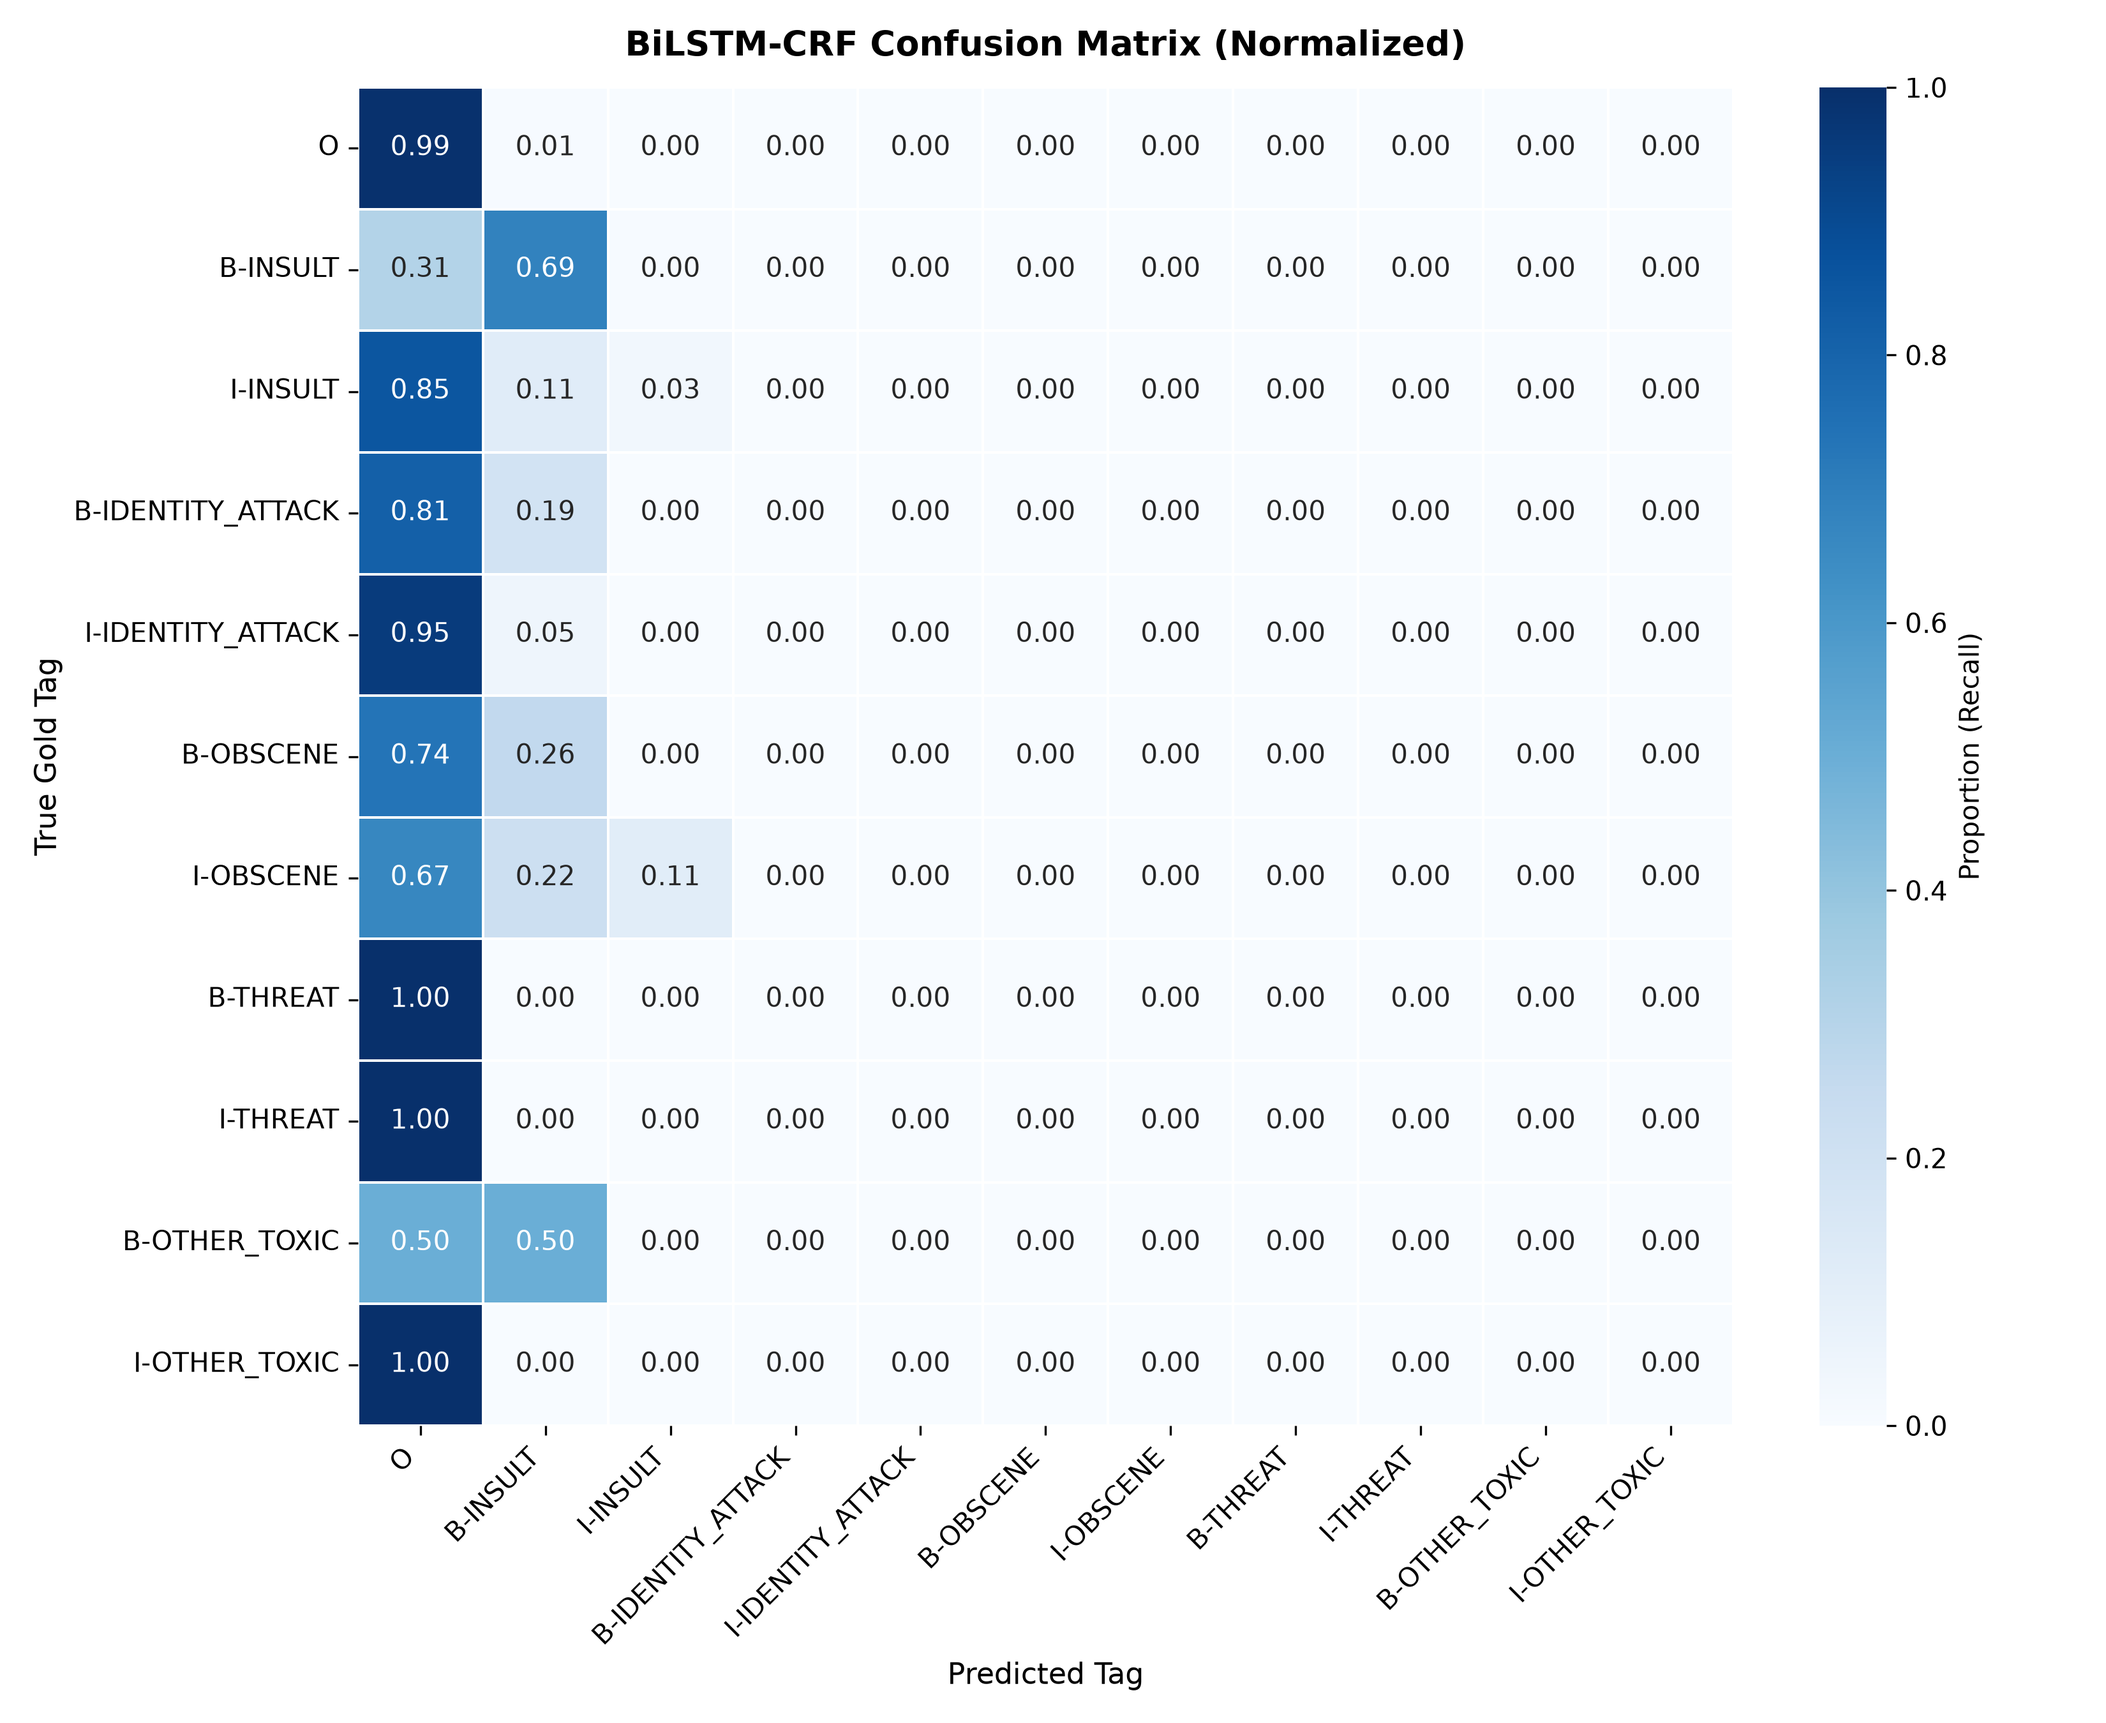
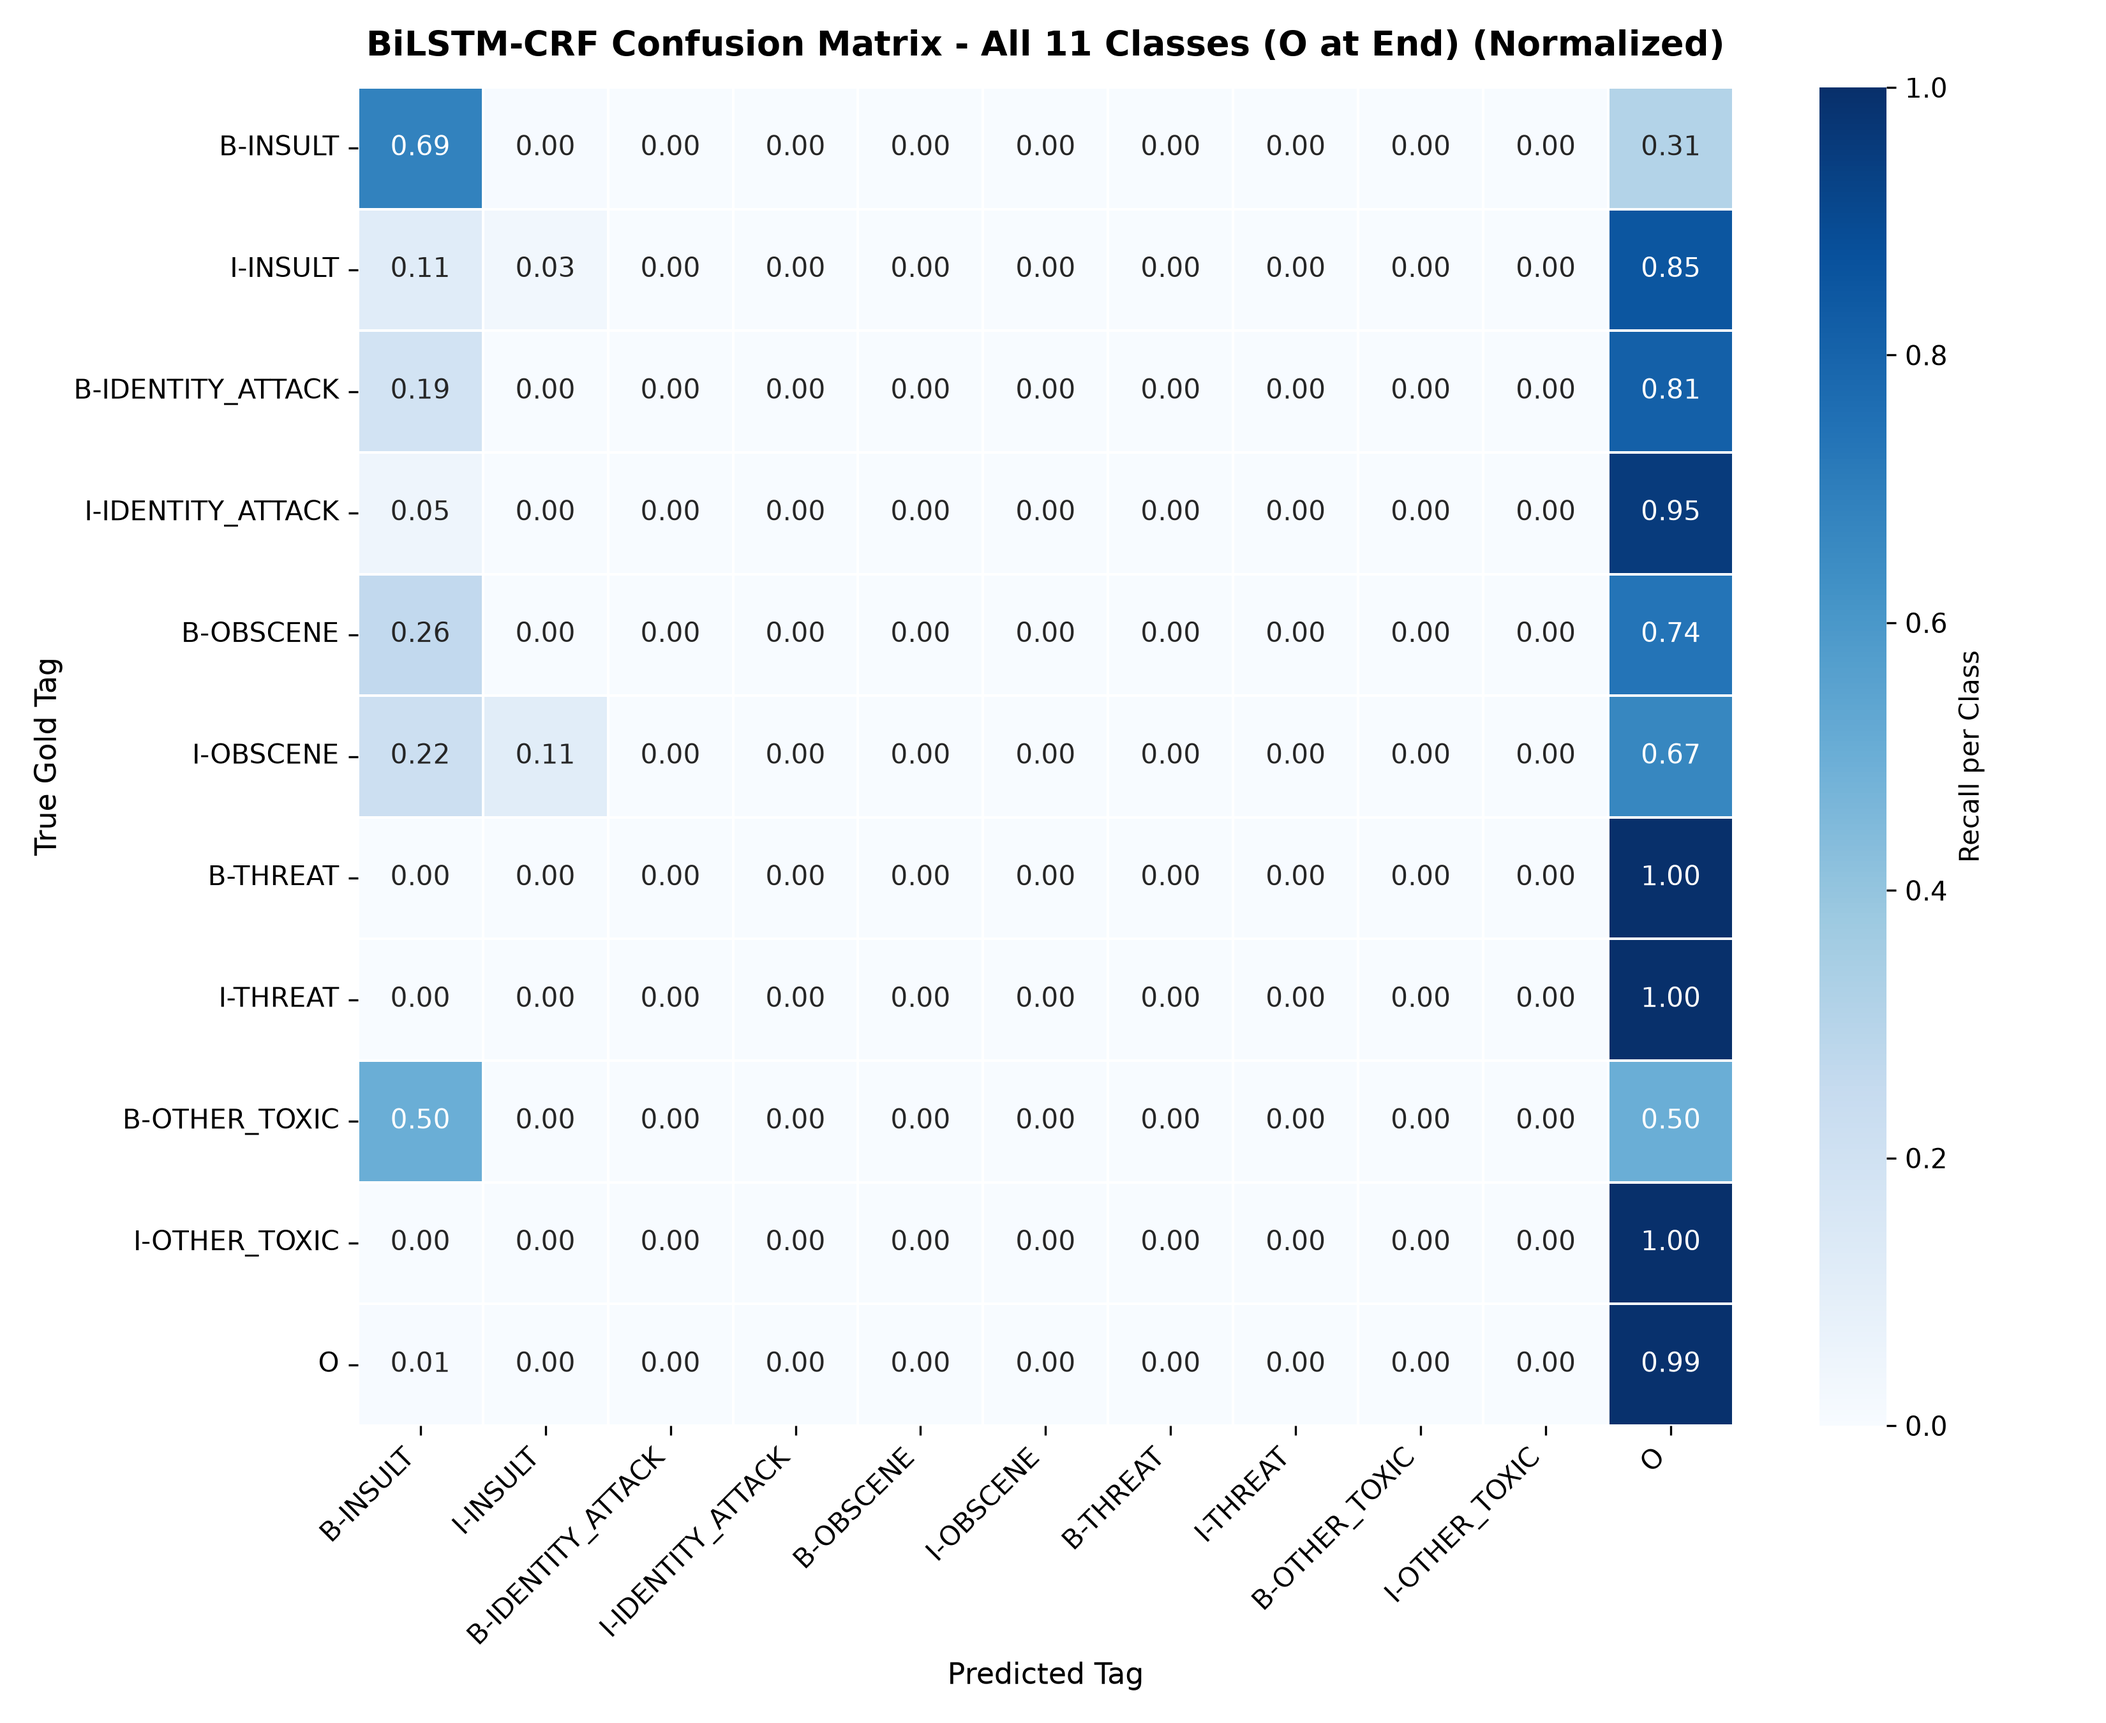
Add Toxic-Only Confusion Matrices and update README with detailed per-class diagnostics

diff --git a/src/utils/metrics.py b/src/utils/metrics.py
@@ -1,7 +1,7 @@
 """
 Evaluation and visualization utilities for sequence labeling.
 Computes seqeval Span-Level F1/Precision/Recall, plots CRF transition heatmaps,
-and generates token-level Confusion Matrices.
+and generates both Full and Toxic-Only token-level Confusion Matrices.
 """
 
 from pathlib import Path
@@ -20,8 +20,17 @@ from seqeval.scheme import IOB2
 
 FIGURES_DIR = Path("reports/figures")
 
-CORE_BIO_TAGS = [
-    "O",
+# Order with toxic categories first and 'O' at the END to keep visual diagonal intuitive
+ORDERED_BIO_TAGS = [
+    "B-INSULT", "I-INSULT",
+    "B-IDENTITY_ATTACK", "I-IDENTITY_ATTACK",
+    "B-OBSCENE", "I-OBSCENE",
+    "B-THREAT", "I-THREAT",
+    "B-OTHER_TOXIC", "I-OTHER_TOXIC",
+    "O"
+]
+
+TOXIC_ONLY_TAGS = [
     "B-INSULT", "I-INSULT",
     "B-IDENTITY_ATTACK", "I-IDENTITY_ATTACK",
     "B-OBSCENE", "I-OBSCENE",
@@ -30,15 +39,12 @@ CORE_BIO_TAGS = [
 ]
 
 def evaluate_predictions(y_true: List[List[str]], y_pred: List[List[str]]) -> Dict[str, Any]:
-    """
-    Computes strict span-level metrics using seqeval (IOB2 scheme) without warnings.
-    """
+    """Computes strict span-level metrics using seqeval (IOB2 scheme)."""
     f1 = seqeval_f1(y_true, y_pred, mode="strict", scheme=IOB2, zero_division=0)
     prec = seqeval_precision(y_true, y_pred, mode="strict", scheme=IOB2, zero_division=0)
     rec = seqeval_recall(y_true, y_pred, mode="strict", scheme=IOB2, zero_division=0)
     report = seqeval_report(y_true, y_pred, mode="strict", scheme=IOB2, digits=4, zero_division=0)
     
-    # Token-level accuracy
     total_tokens = sum(len(t) for t in y_true)
     correct_tokens = sum(
         sum(1 for yt, yp in zip(t_seq, p_seq) if yt == yp)
@@ -63,17 +69,15 @@ def plot_transition_matrix(
 ):
     """
     Plots and saves a clean heatmap of transition probabilities/scores.
-    Filters out special tokens (<START>, <STOP>, <PAD>) to prevent extreme scale skewing.
+    Filters out special tokens (<START>, <STOP>, <PAD>).
     """
     FIGURES_DIR.mkdir(parents=True, exist_ok=True)
     out_path = FIGURES_DIR / filename
     
-    # Identify non-special tokens
     valid_indices = [i for i, label in enumerate(labels) if not label.startswith("<")]
     clean_labels = [labels[i] for i in valid_indices]
     clean_matrix = matrix[np.ix_(valid_indices, valid_indices)].copy()
     
-    # Clip extreme values for visual clarity if values are logits/unbounded
     if clean_matrix.min() < -10.0 or clean_matrix.max() > 10.0:
         clean_matrix = np.clip(clean_matrix, clip_range[0], clip_range[1])
 
@@ -96,7 +100,6 @@ def plot_transition_matrix(
     plt.tight_layout()
     plt.savefig(out_path, dpi=300)
     plt.close()
-    print(f"Transition matrix heatmap saved to: {out_path}")
     return out_path
 
 def plot_confusion_matrix(
@@ -104,31 +107,30 @@ def plot_confusion_matrix(
     y_pred: List[List[str]], 
     title: str = "Token-Level Confusion Matrix",
     filename: str = "confusion_matrix.png",
-    normalize: bool = True
+    normalize: bool = True,
+    toxic_only: bool = False
 ):
     """
-    Flattens token tags, computes scikit-learn confusion matrix across the 11 classes,
-    and saves an annotated heatmap.
+    Flattens token tags and computes confusion matrix.
+    toxic_only: If True, zooms into the 10 toxic classes, excluding the dominant 'O' class.
     """
     FIGURES_DIR.mkdir(parents=True, exist_ok=True)
     out_path = FIGURES_DIR / filename
     
-    # Flatten sequences
     flat_true = [tag for seq in y_true for tag in seq]
     flat_pred = [tag for seq in y_pred for tag in seq]
     
-    # Use standard 11 classes present in dataset
-    all_classes = [c for c in CORE_BIO_TAGS if c in set(flat_true).union(set(flat_pred))]
+    classes_to_use = TOXIC_ONLY_TAGS if toxic_only else ORDERED_BIO_TAGS
+    active_classes = [c for c in classes_to_use if c in set(flat_true).union(set(flat_pred))]
     
-    cm = confusion_matrix(flat_true, flat_pred, labels=all_classes)
+    cm = confusion_matrix(flat_true, flat_pred, labels=active_classes)
     
     if normalize:
-        # Normalize by row (true class count) to show recall per class
         row_sums = cm.sum(axis=1, keepdims=True)
         row_sums[row_sums == 0] = 1
         cm_to_plot = cm.astype("float") / row_sums
         fmt = ".2f"
-        cbar_label = "Proportion (Recall)"
+        cbar_label = "Recall per Class"
     else:
         cm_to_plot = cm
         fmt = "d"
@@ -137,15 +139,16 @@ def plot_confusion_matrix(
     plt.figure(figsize=(11, 9))
     sns.heatmap(
         cm_to_plot,
-        xticklabels=all_classes,
-        yticklabels=all_classes,
-        cmap="Blues",
+        xticklabels=active_classes,
+        yticklabels=active_classes,
+        cmap="Blues" if not toxic_only else "YlOrRd",
         annot=True,
         fmt=fmt,
         cbar_kws={"label": cbar_label},
         linewidths=0.5
     )
-    plt.title(f"{title} ({'Normalized' if normalize else 'Counts'})", fontsize=13, pad=12, fontweight="bold")
+    subtitle = "Toxic Classes Only" if toxic_only else "All 11 Classes (O at End)"
+    plt.title(f"{title} - {subtitle} ({'Normalized' if normalize else 'Counts'})", fontsize=13, pad=12, fontweight="bold")
     plt.xlabel("Predicted Tag", fontsize=11)
     plt.ylabel("True Gold Tag", fontsize=11)
     plt.xticks(rotation=45, ha="right")
@@ -153,5 +156,4 @@ def plot_confusion_matrix(
     plt.tight_layout()
     plt.savefig(out_path, dpi=300)
     plt.close()
-    print(f"Confusion matrix heatmap saved to: {out_path}")
     return out_path

diff --git a/train.py b/train.py
@@ -63,8 +63,9 @@ def train_and_eval_logreg(train_data, val_data, test_data) -> Dict[str, Any]:
     logging.info(f"LogReg Test Strict Span F1: {metrics['strict_span_f1']:.4f}")
     logging.info(f"LogReg Test Token Accuracy: {metrics['token_accuracy']:.4f}")
     
-    # Save Confusion Matrix Heatmap
+    # Save Confusion Matrix Heatmaps (Full and Toxic-Only)
     plot_confusion_matrix(test_tags, y_pred, title="Logistic Regression Confusion Matrix", filename="confusion_matrix_logreg.png")
+    plot_confusion_matrix(test_tags, y_pred, title="Logistic Regression Confusion Matrix", filename="confusion_matrix_logreg_toxic_only.png", toxic_only=True)
     
     return {
         "model": "Logistic Regression (Token Baseline)",
@@ -94,10 +95,11 @@ def train_and_eval_hmm(train_data, val_data, test_data) -> Dict[str, Any]:
     logging.info(f"HMM Test Strict Span F1: {metrics['strict_span_f1']:.4f}")
     logging.info(f"HMM Test Token Accuracy: {metrics['token_accuracy']:.4f}")
     
-    # Save Transition Matrix & Confusion Matrix Heatmaps
+    # Save Transition Matrix & Confusion Matrix Heatmaps (Full and Toxic-Only)
     trans_mat, states = hmm.get_transition_matrix()
     plot_transition_matrix(trans_mat, states, title="HMM Transition Matrix (Probabilities)", filename="hmm_transitions.png")
     plot_confusion_matrix(test_tags, y_pred, title="HMM Confusion Matrix", filename="confusion_matrix_hmm.png")
+    plot_confusion_matrix(test_tags, y_pred, title="HMM Confusion Matrix", filename="confusion_matrix_hmm_toxic_only.png", toxic_only=True)
     
     return {
         "model": "HMM (Hidden Markov Model)",
@@ -129,10 +131,11 @@ def train_and_eval_crf(train_data, val_data, test_data) -> Dict[str, Any]:
     logging.info(f"CRF Test Strict Span F1: {metrics['strict_span_f1']:.4f}")
     logging.info(f"CRF Test Token Accuracy: {metrics['token_accuracy']:.4f}")
     
-    # Save Transition Matrix & Confusion Matrix Heatmaps
+    # Save Transition Matrix & Confusion Matrix Heatmaps (Full and Toxic-Only)
     trans_mat, states = crf.get_transition_matrix()
     plot_transition_matrix(trans_mat, states, title="CRF Transition Matrix (Learned Weights)", filename="crf_transitions.png")
     plot_confusion_matrix(test_tags, y_pred, title="CRF Confusion Matrix", filename="confusion_matrix_crf.png")
+    plot_confusion_matrix(test_tags, y_pred, title="CRF Confusion Matrix", filename="confusion_matrix_crf_toxic_only.png", toxic_only=True)
     
     return {
         "model": "Linear-Chain CRF",
@@ -257,10 +260,11 @@ def train_and_eval_bilstm_crf(
     logging.info(f"BiLSTM-CRF Test Strict Span F1: {test_metrics['strict_span_f1']:.4f}")
     logging.info(f"BiLSTM-CRF Test Token Accuracy: {test_metrics['token_accuracy']:.4f}")
     
-    # Save Transition Matrix & Confusion Matrix Heatmaps
+    # Save Transition Matrix & Confusion Matrix Heatmaps (Full and Toxic-Only)
     trans_mat, states = model.get_transition_matrix()
     plot_transition_matrix(trans_mat, states, title="BiLSTM-CRF Transition Matrix (Learned Scores)", filename="bilstm_crf_transitions.png")
     plot_confusion_matrix(test_trues, test_preds, title="BiLSTM-CRF Confusion Matrix", filename="confusion_matrix_bilstm_crf.png")
+    plot_confusion_matrix(test_trues, test_preds, title="BiLSTM-CRF Confusion Matrix", filename="confusion_matrix_bilstm_crf_toxic_only.png", toxic_only=True)
     
     return {
         "model": "BiLSTM-CRF (PyTorch Deep Sequence)",
